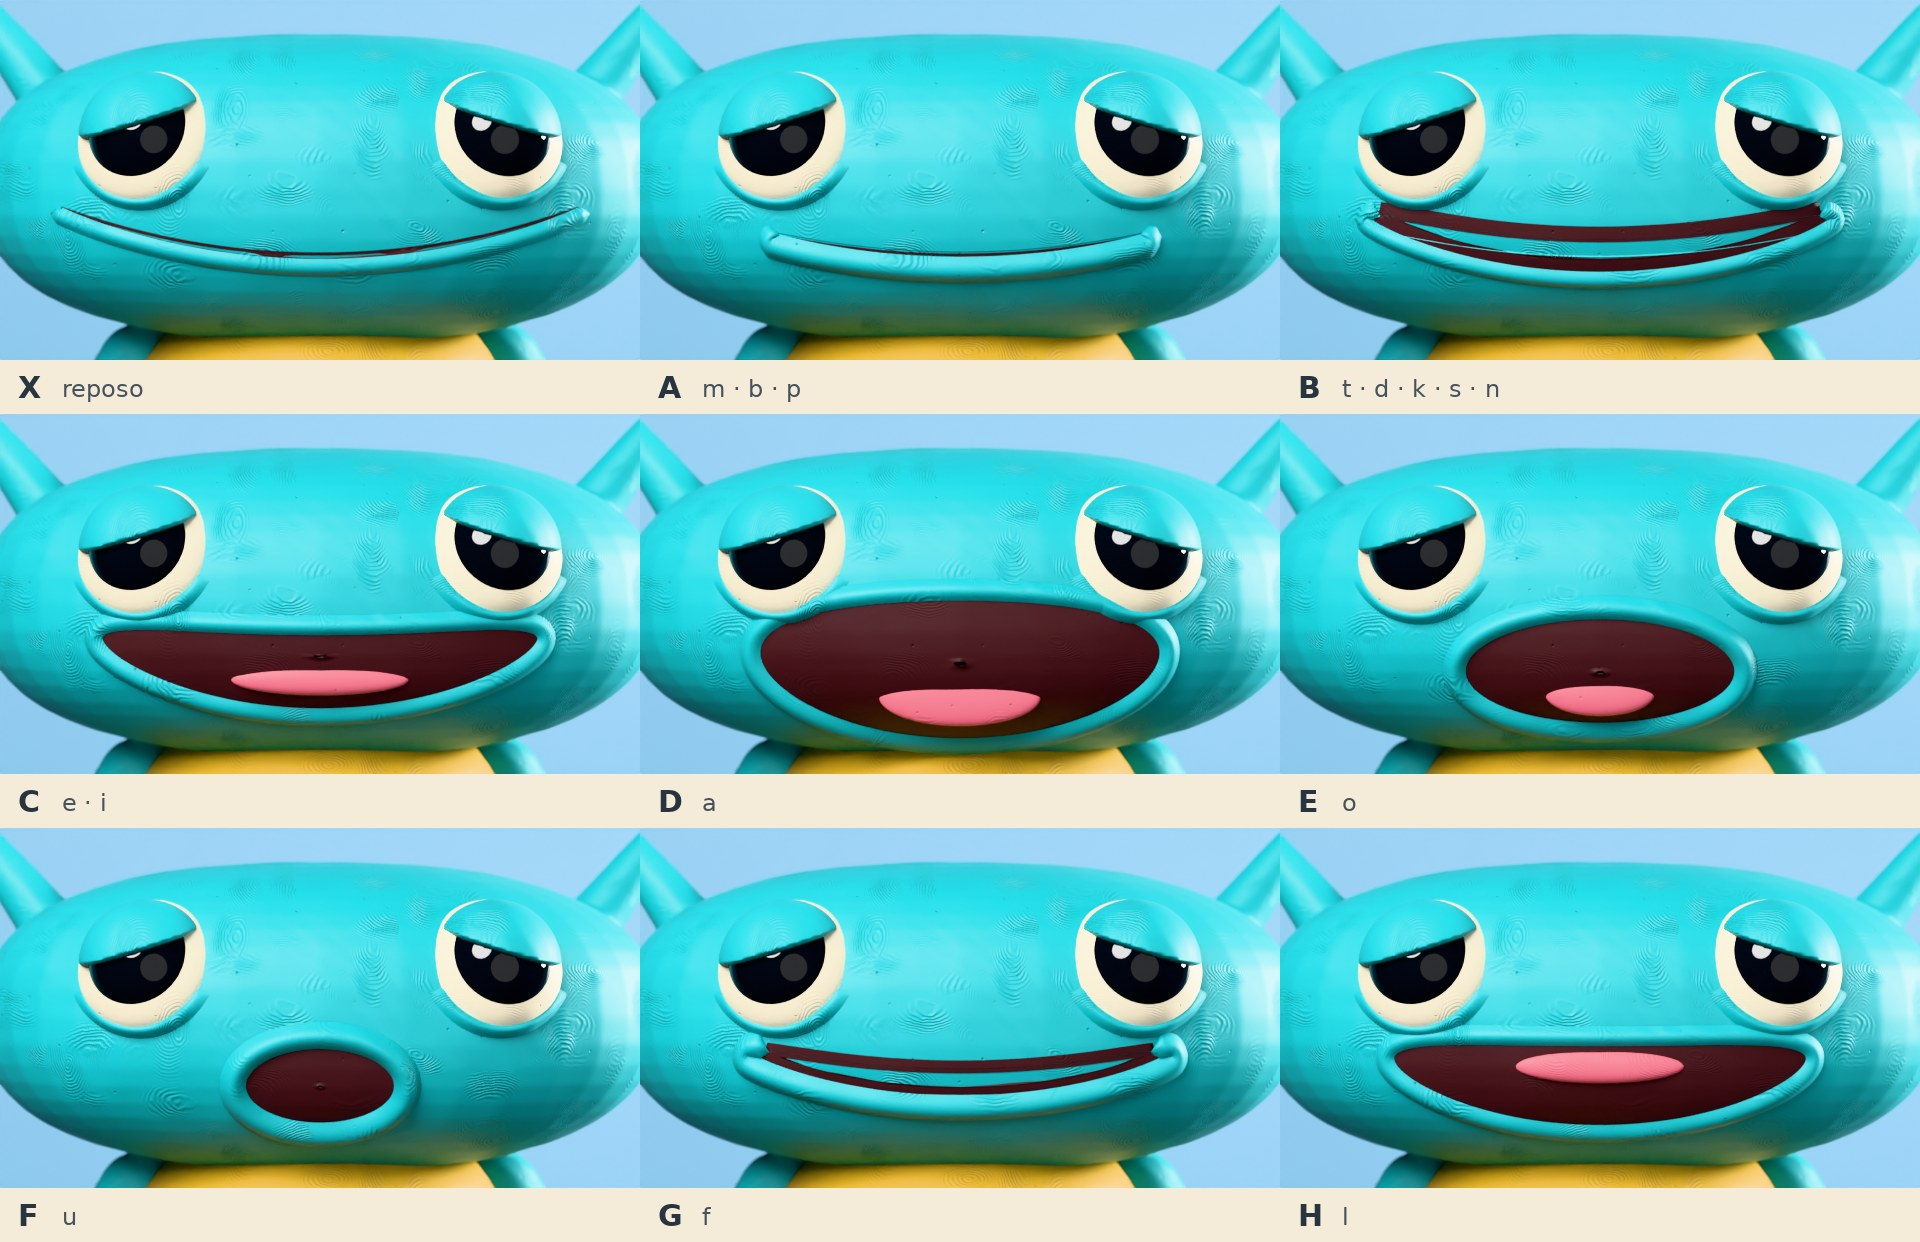
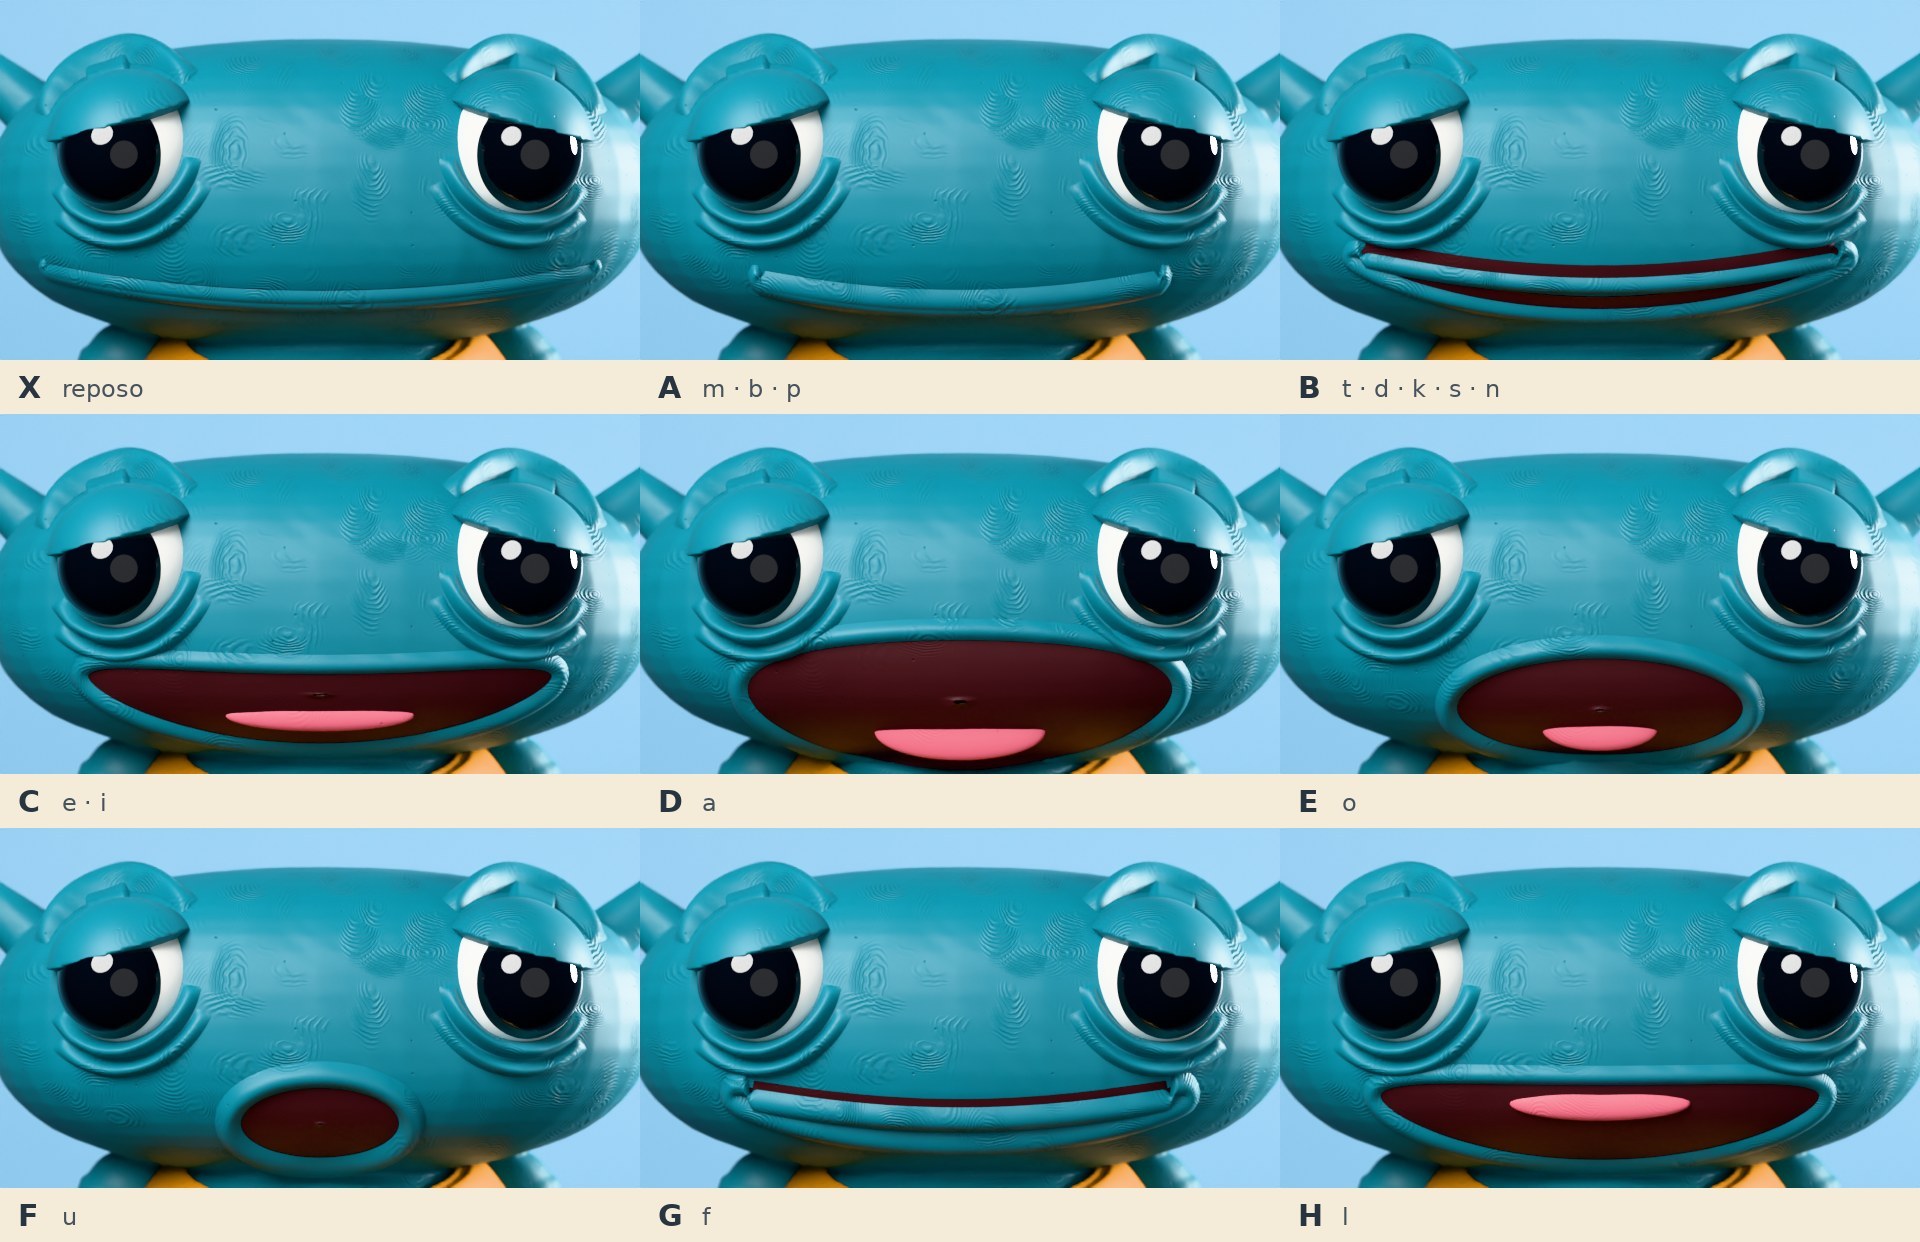
3D: Pipo y Plop más fieles a la lámina (pies redondeados, torso rechoncho, pupilas grandes)
Claude-Session: https://claude.ai/code/session_01CgxHSCTeyvRBGUgCyWNFQ3

diff --git a/3d/blender/personajes.py b/3d/blender/personajes.py
@@ -206,7 +206,7 @@ def _ojo(nombre, cuerpo, col, x, z, r, mats, lado=1, estilo="pipo", caida=0.3, c
         _esfera(bm, centro, (r, r, r), segs=96, anillos=64)
         piezas.append(_objeto(f"{nombre}_ojo", bm, col, mats["ojo"]))
         bm = bmesh.new()                    # aro crema: cuenco ovalado detrás del botón
-        _esfera(bm, centro, (1.32 * r, 1.32 * r, 0.74 * r), rot=giro, segs=96, anillos=64)
+        _esfera(bm, centro, (1.27 * r, 1.27 * r, 0.74 * r), rot=giro, segs=96, anillos=64)
         piezas.append(_objeto(f"{nombre}_esclera", bm, col, mats["esclera"]))
         r_ext, rl = 1.25 * r, 1.2 * r
 
@@ -462,15 +462,15 @@ def crear_pipo(ubicacion=(0, 0, 0), giro_z=0.0, brazo_izq=0.0, brazo_der=0.0, bo
     col = _coleccion(coleccion)
     mats = _materiales("pipo", semilla=0.0)
     raiz = _raiz("Pipo", col, ubicacion, giro_z)
-    up = 0.016                                                                    # piernas de la lámina
+    up = 0.011                                                                    # piernas de la lámina
 
     bm = bmesh.new()
     _esfera(bm, (0, 0, 0.237 + up), (0.125, 0.082, 0.058), potencia=0.82)        # cabeza de frijol
     _esfera(bm, (0, 0.004, 0.13 + up), (0.077, 0.064, 0.072))                     # cuerpo en pera
-    _esfera(bm, (0, 0.002, 0.094 + up), (0.086, 0.073, 0.052))                    # barriga redonda
+    _esfera(bm, (0, 0.002, 0.094 + up), (0.079, 0.07, 0.052))                     # barriga redonda
     for lado in (-1, 1):
         _capsula(bm, (lado * 0.098, 0.003, 0.258 + up), (lado * 0.136, 0.004, 0.29 + up), 0.02, 0.0078)  # orejitas
-        _capsula(bm, (lado * 0.037, 0.004, -0.01), (lado * 0.037, 0.004, 0.07 + up), 0.0245)       # piernas
+        _capsula(bm, (lado * 0.037, 0.004, 0.01), (lado * 0.037, 0.004, 0.07 + up), 0.0245)        # piernas, pie redondeado
         ang = brazo_der if lado < 0 else brazo_izq   # mirando a cámara, su derecha queda a la izquierda
         hombro = Vector((lado * 0.074, 0.006, 0.17 + up))
         dirb = Vector((lado * math.sin(0.33 + ang), 0, -math.cos(0.33 + ang)))
@@ -541,15 +541,15 @@ def crear_plop(ubicacion=(0, 0, 0), giro_z=0.0, brazo_izq=0.0, brazo_der=0.0, bo
 
     bm = bmesh.new()
     _esfera(bm, (0, 0, 0.24 + up), (0.126, 0.086, 0.07), potencia=0.88)          # cabeza de píldora
-    _esfera(bm, (0, 0.004, 0.118 + up), (0.08, 0.068, 0.088))                    # núcleo del torso
-    for z, rx, rz in ((0.176, 0.08, 0.04), (0.124, 0.097, 0.045), (0.07, 0.095, 0.042)):
+    _esfera(bm, (0, 0.004, 0.118 + up), (0.088, 0.072, 0.088))                   # núcleo del torso, rechoncho
+    for z, rx, rz in ((0.174, 0.084, 0.044), (0.124, 0.1, 0.05), (0.072, 0.098, 0.047)):
         _esfera(bm, (0, 0.004, z + up), (rx, rx * 0.82, rz))                      # tres segmentos marcados
     for lado in (-1, 1):
-        _capsula(bm, (lado * 0.042, 0.004, -0.01), (lado * 0.042, 0.004, 0.06 + up), 0.026)        # piernas
+        _capsula(bm, (lado * 0.042, 0.004, 0.01), (lado * 0.042, 0.004, 0.06 + up), 0.026)         # piernas, pie redondeado
         ang = brazo_der if lado < 0 else brazo_izq   # mirando a cámara, su derecha queda a la izquierda
-        hombro = Vector((lado * 0.085, 0.006, 0.17 + up))
-        dirb = Vector((lado * math.sin(0.27 + ang), 0, -math.cos(0.27 + ang)))
-        _capsula(bm, hombro, hombro + dirb * 0.112, 0.018, 0.02, aplanado=0.8)
+        hombro = Vector((lado * 0.092, 0.006, 0.156 + up))
+        dirb = Vector((lado * math.sin(0.2 + ang), 0, -math.cos(0.2 + ang)))
+        _capsula(bm, hombro, hombro + dirb * 0.098, 0.021, 0.024, aplanado=0.8)
     cuerpo = _objeto("Plop_cuerpo", bm, col, mats["piel"])
     _amasar(cuerpo)
     _BVH.pop(cuerpo.name, None)
@@ -561,7 +561,7 @@ def crear_plop(ubicacion=(0, 0, 0), giro_z=0.0, brazo_izq=0.0, brazo_der=0.0, bo
         _esfera(bm, (lado * 0.031, 0.0, 0.328 + up), (0.0068, 0.0068, 0.0068))
         piezas.append(_objeto(f"Plop_antena_{lado}", bm, col, mats["piel"]))
     for lado, nombre in ((-1, "der"), (1, "izq")):
-        piezas += _ojo(f"Plop_{nombre}", cuerpo, col, lado * 0.045, 0.245 + up, 0.0158, mats, lado=lado,
+        piezas += _ojo(f"Plop_{nombre}", cuerpo, col, lado * 0.045, 0.245 + up, 0.0168, mats, lado=lado,
                        estilo="plop", caida=0.22, cubre=0.42, bolsa=False)
 
     # Corbatín: dos lazos que se ensanchan hacia fuera, acolchados, y un nudo rectangular.
